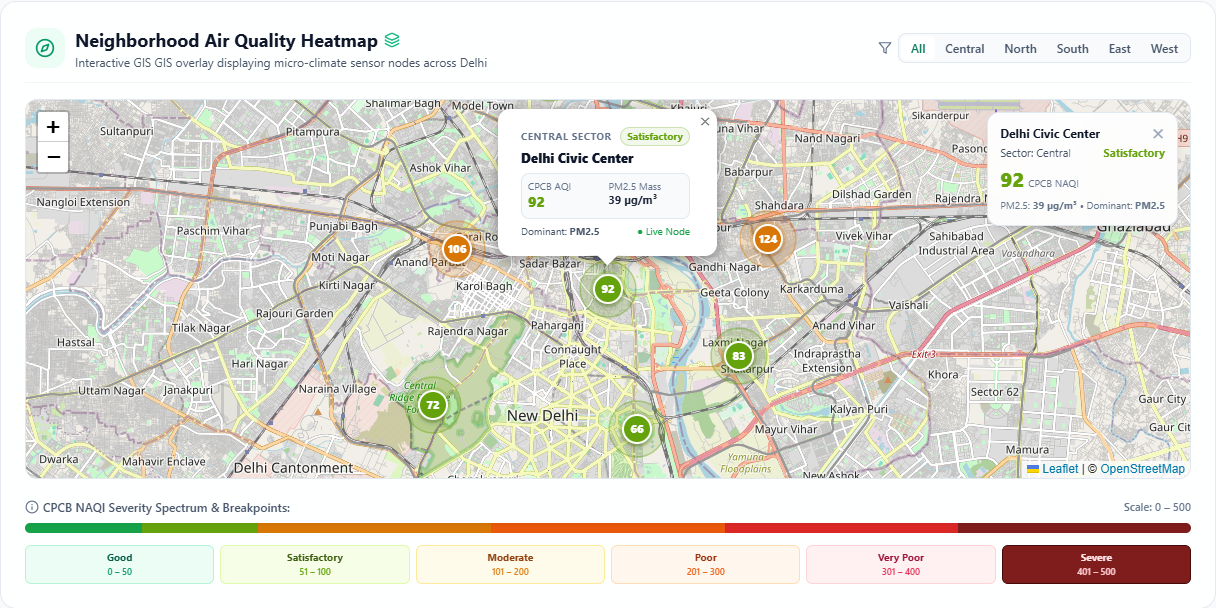
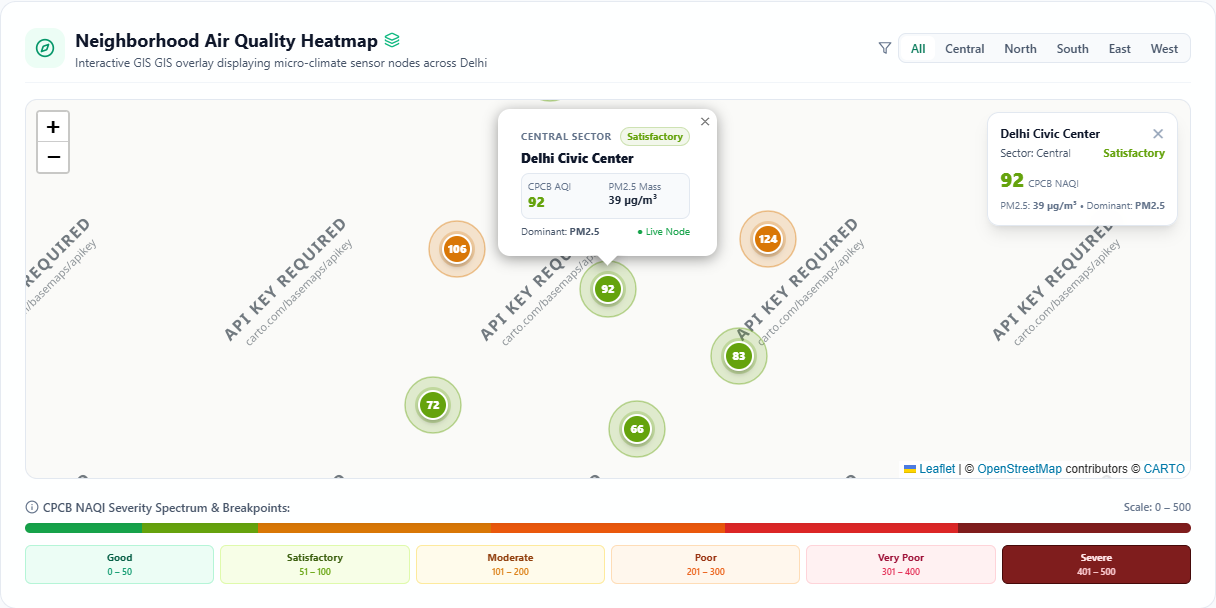
fix: switch to CartoDB Positron tiles and update CSP connect-src to eliminate 403 access blocked error

diff --git a/client/src/components/NeighborhoodMap.tsx b/client/src/components/NeighborhoodMap.tsx
@@ -106,11 +106,12 @@ export const NeighborhoodMap: React.FC<NeighborhoodMapProps> = ({
       scrollWheelZoom: false
     });
 
-    // Clean CartoDB Positron / OpenStreetMap light basemap tiles
-    L.tileLayer('https://{s}.tile.openstreetmap.org/{z}/{x}/{y}.png', {
-      maxZoom: 18,
+    // Production-ready CartoDB Positron basemap tiles (no volunteer rate limits, compliant with OSM policy)
+    L.tileLayer('https://{s}.basemaps.cartocdn.com/light_all/{z}/{x}/{y}{r}.png', {
+      maxZoom: 19,
+      subdomains: 'abcd',
       attribution:
-        '&copy; <a href="https://www.openstreetmap.org/copyright" target="_blank">OpenStreetMap</a>'
+        '&copy; <a href="https://www.openstreetmap.org/copyright" target="_blank" rel="noopener noreferrer">OpenStreetMap</a> contributors &copy; <a href="https://carto.com/attributions" target="_blank" rel="noopener noreferrer">CARTO</a>'
     }).addTo(map);
 
     const markersLayer = L.layerGroup().addTo(map);

diff --git a/server/src/middleware/security.ts b/server/src/middleware/security.ts
@@ -13,8 +13,22 @@ export const securityHeaders = helmet({
       defaultSrc: ["'self'"],
       scriptSrc: ["'self'", "https://unpkg.com"],
       styleSrc: ["'self'", "'unsafe-inline'", "https://unpkg.com"],
-      imgSrc: ["'self'", "data:", "https:", "https://*.tile.openstreetmap.org", "https://unpkg.com"],
-      connectSrc: ["'self'", CLIENT_ORIGIN, "https://*.open-meteo.com", "https://*.tile.openstreetmap.org"],
+      imgSrc: [
+        "'self'",
+        "data:",
+        "https:",
+        "https://*.basemaps.cartocdn.com",
+        "https://*.tile.openstreetmap.org",
+        "https://unpkg.com"
+      ],
+      connectSrc: [
+        "'self'",
+        CLIENT_ORIGIN,
+        "https://*.open-meteo.com",
+        "https://*.basemaps.cartocdn.com",
+        "https://*.tile.openstreetmap.org",
+        "https://unpkg.com"
+      ],
       fontSrc: ["'self'"],
       objectSrc: ["'none'"],
       upgradeInsecureRequests: []

diff --git a/client/index.html b/client/index.html
@@ -6,9 +6,8 @@
     <meta name="viewport" content="width=device-width, initial-scale=1.0" />
     <meta name="description" content="Urban Air Quality Assistant - Real-time air quality index (India CPCB NAQI), pollutant metrics, health advisories, trends, and weather context." />
     <title>Urban Air Quality Assistant | Live AQI & Health Advisories</title>
-    <!-- Leaflet.js 1.9.4 CDN stylesheet & script -->
+    <!-- Leaflet.js 1.9.4 CDN stylesheet -->
     <link rel="stylesheet" href="https://unpkg.com/leaflet@1.9.4/dist/leaflet.css" integrity="sha256-p4NxAoJBhIIN+hmNHrzRCf9tD/miZyoHS5obTRR9BMY=" crossorigin="" />
-    <script src="https://unpkg.com/leaflet@1.9.4/dist/leaflet.js" integrity="sha256-20nQCchB9co0qIjJZRGuk2/Z9VM+kNiyxNV1lvTlZBo=" crossorigin=""></script>
   </head>
   <body class="bg-slate-50 text-slate-900 antialiased min-h-screen">
     <div id="root"></div>
